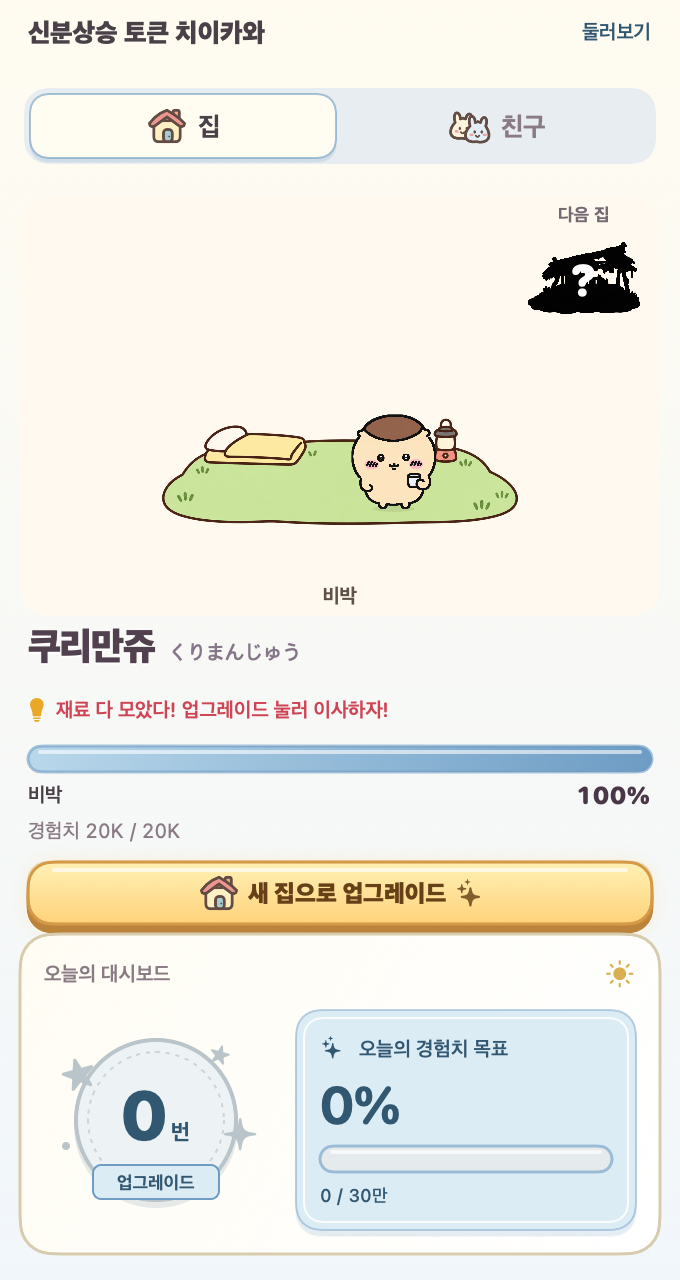
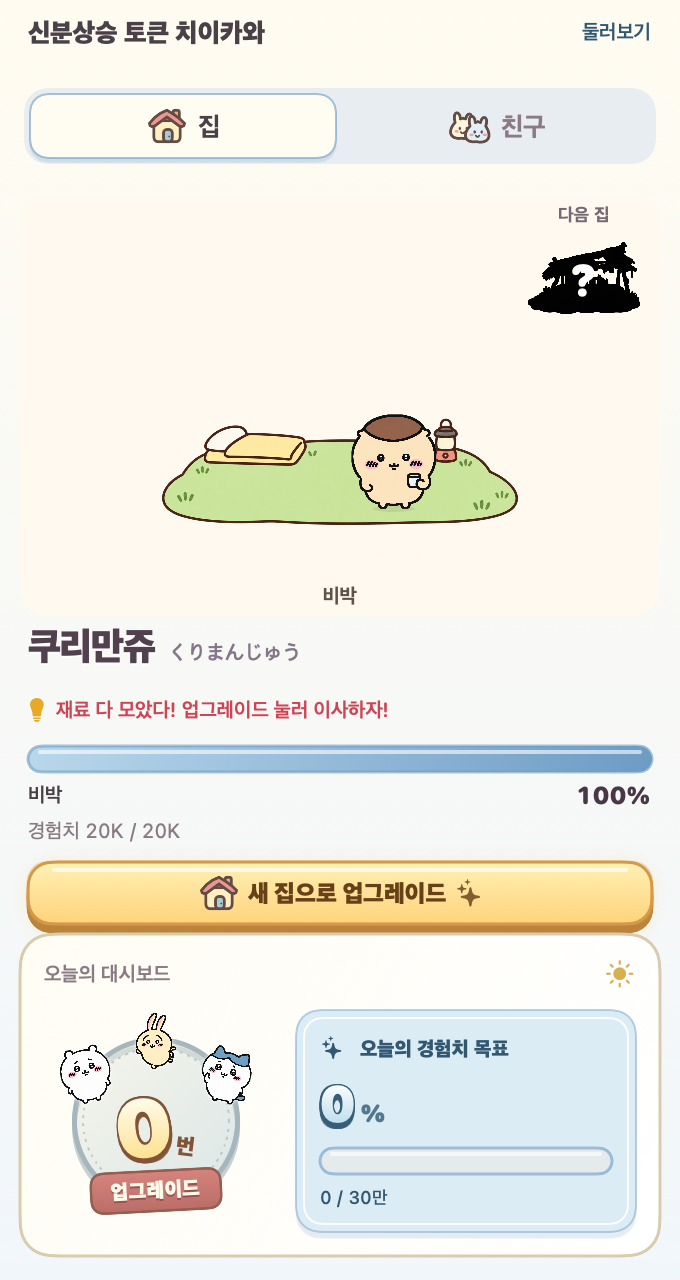
Redesign daily achievements as character stamps in 0.4.9

Changed region(s): [[0.0618, 0.7812, 0.9574, 1.0]]

diff --git a/Sources/ChiiBar/UpgradeBadge.swift b/Sources/ChiiBar/UpgradeBadge.swift
@@ -1,49 +1,76 @@
+import ChiiCore
 import SwiftUI
 
-/// A daily achievement seal. Its ornaments do not imply a target or percentage.
+/// A collectible daily stamp decorated with the same friends as the game.
 struct UpgradeBadge: View {
     let count: Int
-    private var gold: Color { Ink.rgb(count > 0 ? 0xD4AA50 : 0xB9C5CA) }
+    private var gold: Color { Ink.rgb(count > 0 ? 0xC89543 : 0xA6B6BD) }
 
     var body: some View {
-        VStack(spacing: 3) {
-            ZStack {
-                Circle().fill(Ink.rgb(count > 0 ? 0xF8E8B9 : 0xEDF2F4))
-                    .frame(width: 80, height: 80)
-                    .overlay(Circle().stroke(gold, lineWidth: 2))
-                    .compositingGroup()
-            .shadow(color: gold.opacity(0.35), radius: 0, y: 3)
-                Circle().stroke(gold.opacity(0.65), style: StrokeStyle(lineWidth: 1, dash: [2, 3]))
-                    .frame(width: 68, height: 68)
-                HStack(alignment: .firstTextBaseline, spacing: 1) {
-                    Text("\(count)").font(.system(size: count > 99 ? 27 : 34, weight: .heavy, design: .rounded))
-                    Text("번").font(.system(size: 11, weight: .bold))
-                }
-                .foregroundStyle(Theme.actionText)
-                .offset(y: -3)
-                decorations
-                Text("업그레이드")
-                    .font(.system(size: 9, weight: .bold))
-                    .foregroundStyle(Theme.actionText)
-                    .padding(.horizontal, 12).padding(.vertical, 3)
-                    .background(Ink.rgb(0xDCECF5), in: RoundedRectangle(cornerRadius: 4))
-                    .overlay(RoundedRectangle(cornerRadius: 4).stroke(Theme.accent, lineWidth: 1))
-                    .offset(y: 31)
+        ZStack {
+            Circle()
+                .fill(LinearGradient(colors: count > 0 ? [Ink.rgb(0xFFF6D8), Ink.rgb(0xF6D98B)] : [Ink.rgb(0xF5F5EB), Ink.rgb(0xDCE6E7)], startPoint: .topLeading, endPoint: .bottomTrailing))
+                .frame(width: 84, height: 84)
+                .overlay(Circle().strokeBorder(gold, lineWidth: 2.5))
+                .shadow(color: gold.opacity(0.4), radius: 0, y: 3)
+            Circle().stroke(gold.opacity(0.65), style: StrokeStyle(lineWidth: 1, dash: [1, 3]))
+                .frame(width: 73, height: 73)
+            HStack(alignment: .firstTextBaseline, spacing: 2) {
+                StampNumber(text: "\(count)", size: count > 999 ? 24 : count > 99 ? 30 : 40,
+                            colors: [Ink.rgb(0xFFFDF0), Ink.rgb(0xFFDF89)], ink: Ink.rgb(0x815437))
+                    .rotationEffect(.degrees(-7))
+                Text("번")
+                    .font(.custom("AppleSDGothicNeo-Heavy", size: 11))
+                    .foregroundStyle(Ink.rgb(0x815437))
+                    .rotationEffect(.degrees(7))
+                    .offset(y: -1)
             }
-            .frame(width: 112, height: 86)
+            .frame(maxWidth: 82).minimumScaleFactor(0.6).lineLimit(1)
+            .offset(y: 2)
+            Text("업그레이드")
+                .font(.custom("AppleSDGothicNeo-Heavy", size: 10))
+                .tracking(0.3)
+                .foregroundStyle(Ink.rgb(0xFFF9E9))
+                .shadow(color: Ink.rgb(0x9A514D), radius: 0, y: 1)
+                .padding(.horizontal, 10).padding(.vertical, 4)
+                .background(LinearGradient(colors: [Ink.rgb(0xD5847C), Ink.rgb(0xBB6D68)], startPoint: .top, endPoint: .bottom), in: RoundedRectangle(cornerRadius: 6))
+                .overlay(RoundedRectangle(cornerRadius: 6).stroke(Ink.rgb(0x945E53), lineWidth: 1.3))
+                .rotationEffect(.degrees(-3)).offset(y: 35)
+            friend(.chiikawa).rotationEffect(.degrees(-13)).offset(x: -35, y: -23)
+            friend(.hachiware).rotationEffect(.degrees(12)).offset(x: 35, y: -23)
+            friend(.usagi).offset(y: -40)
         }
+        .frame(width: 112, height: 108)
         .accessibilityElement(children: .ignore)
         .accessibilityLabel("오늘 업그레이드 \(count)번")
     }
 
-    private var decorations: some View {
-        ZStack {
-            Image(systemName: "star.fill").font(.system(size: 15)).rotationEffect(.degrees(-15)).offset(x: -39, y: -23)
-            Image(systemName: "sparkle").font(.system(size: 17)).offset(x: 42, y: 7)
-            Image(systemName: "star.fill").font(.system(size: 9)).rotationEffect(.degrees(15)).offset(x: 32, y: -33)
-            Circle().frame(width: 4, height: 4).offset(x: -45, y: 13)
+    private func friend(_ id: FriendID) -> some View {
+        Canvas { context, size in
+            _ = SpriteArt.drawFace(context, id, in: CGRect(origin: .zero, size: size))
         }
-        .foregroundStyle(gold)
+        .frame(width: 28, height: 28)
+        .shadow(color: .white.opacity(0.9), radius: 1)
         .accessibilityHidden(true)
+    }
+}
+
+/// Rounded, outlined print with a short offset base, like embossed sticker lettering.
+struct StampNumber: View {
+    let text: String
+    let size: CGFloat
+    let colors: [Color]
+    let ink: Color
+    var body: some View {
+        Text(text)
+            .font(.system(size: size, weight: .black, design: .rounded).width(.condensed))
+            .tracking(-0.8)
+            .foregroundStyle(LinearGradient(colors: colors, startPoint: .top, endPoint: .bottom))
+            .shadow(color: ink, radius: 0, x: -0.8)
+            .shadow(color: ink, radius: 0, x: 0.8)
+            .shadow(color: ink, radius: 0, y: -0.8)
+            .shadow(color: ink, radius: 0, y: 0.8)
+            .shadow(color: ink.opacity(0.8), radius: 0, y: 2)
+            .lineLimit(1)
     }
 }

diff --git a/Sources/ChiiBar/DailyGoalCard.swift b/Sources/ChiiBar/DailyGoalCard.swift
@@ -15,10 +15,18 @@ struct DailyGoalCard: View {
     var body: some View {
         VStack(alignment: .leading, spacing: 6) {
             Label(ratio >= 1 ? "오늘 목표 달성!" : "오늘의 경험치 목표", systemImage: ratio >= 1 ? "checkmark.seal.fill" : "sparkles")
-                .font(.system(size: 10, weight: .semibold))
-            Text("\(percent)%")
-                .font(.system(size: 26, weight: .bold, design: .rounded))
-                .minimumScaleFactor(0.6).lineLimit(1)
+                .font(.custom("AppleSDGothicNeo-Heavy", size: 10))
+            HStack(alignment: .firstTextBaseline, spacing: 3) {
+                StampNumber(text: percent, size: 25,
+                            colors: [Ink.rgb(0xFFFFFF), Ink.rgb(0xBBDDEC)], ink: Ink.rgb(0x365E77))
+                    .minimumScaleFactor(0.25)
+                Text("%")
+                    .font(.system(size: 12, weight: .black, design: .rounded))
+                    .foregroundStyle(Ink.rgb(0x52788E))
+                    .fixedSize()
+            }
+            .frame(maxWidth: .infinity, alignment: .leading)
+            .padding(.bottom, 2)
             ProgressTrack(fraction: min(1, ratio), sweepFrom: nil, fixedNow: .distantPast)
                 .accessibilityHidden(true)
             Text("\(amount) / \(Self.target / 10_000)만")

diff --git a/Sources/ChiiBar/Previews.swift b/Sources/ChiiBar/Previews.swift
@@ -28,6 +28,16 @@ enum Previews {
         }
         let sz = HouseArt.size
 
+        if ProcessInfo.processInfo.environment["CHIIBAR_STAMP_ONLY"] == "1" {
+            for (count, earned) in [(0, Int64(0)), (7, 13_193_379), (77, 243_000), (7777, Int64.max)] {
+                save("stamp_\(count)", CGSize(width: 320, height: 154), HStack(spacing: 14) {
+                    UpgradeBadge(count: count).frame(width: 112)
+                    DailyGoalCard(earned: earned)
+                }.padding(12).background(Theme.background))
+            }
+            return
+        }
+
         if ProcessInfo.processInfo.environment["CHIIBAR_PRESENTATION_ONLY"] == "1" {
             let model = fixtureModel(lastTokenAgo: 60)
             model.state.current = .kurimanju
